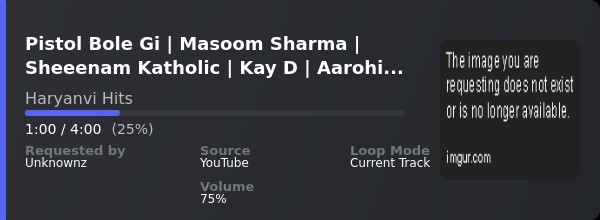
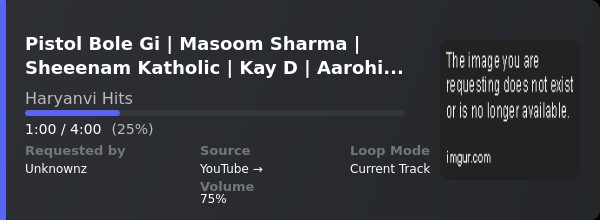
Update music bot's Lavalink connection and music card display
Replit-Commit-Author: Agent
Replit-Commit-Session-Id: c05572d7-6179-4feb-9c0b-fb53186f9060

Changed region(s): [[0.57, 0.7091, 0.72, 0.7909], [0.03, 0.7091, 0.15, 0.7909], [0.33, 0.7091, 0.45, 0.7909]]

diff --git a/utils/imageCard.js b/utils/imageCard.js
@@ -172,27 +172,31 @@ async function generateMusicCard(options = {}) {
         ctx.font = '12px Arial'; // Reduced font size for values to match the source/volume
         
         // Column 1 values - with consistent spacing as other values
-        ctx.fillText(requester, column1X, infoY + 12);
+        ctx.fillText(requester, column1X, infoY + 18); // Increased spacing between label and value
         
         // Column 2 values - with source icon
         // Source icon (before text)
         const sourceIconY = infoY + 12;
         const iconSize = 14;
         
-        // Display all sources the same way with smaller text style and no icons
+        // Display source with an arrow for YouTube or icon indicator
         ctx.fillStyle = '#ffffff';
         ctx.textAlign = 'left';
         ctx.textBaseline = 'alphabetic';
         ctx.font = '12px Arial'; // Smaller font size for source, volume and loop
         
-        // Draw source text in normal position without any directional indicators
-        ctx.fillText(sourceName, column2X, infoY + 12);
+        // Draw source text with right-pointing arrow for YouTube
+        if (sourceName.toLowerCase() === 'youtube') {
+            ctx.fillText(`${sourceName} →`, column2X, infoY + 18); // Added right arrow for YouTube and adjusted spacing
+        } else {
+            ctx.fillText(sourceName, column2X, infoY + 18); // Adjusted spacing to match "Requested by"
+        }
         
         // Volume value (using smaller font) - increased vertical gap
         ctx.fillText(`${volume}%`, column2X, infoY + 48);
         
         // Column 3 values (using smaller font)
-        ctx.fillText(getLoopModeName(loopMode), column3X, infoY + 12);
+        ctx.fillText(getLoopModeName(loopMode), column3X, infoY + 18); // Adjusted spacing to match other columns
         
         // Reset font size for other elements
         ctx.font = '14px Arial';

diff --git a/config.js b/config.js
@@ -31,8 +31,8 @@ module.exports = {
         nodes: [
             {
                 name: 'Main',
-                url: 'lava-v4.ajieblogs.eu.org:80',
-                auth: 'https://dsc.gg/ajidevserver',
+                url: 'lavalink.devamop.in:443',
+                auth: 'DevamOP',
                 secure: true,
                 retryAmount: 5,
                 retryDelay: 3000
